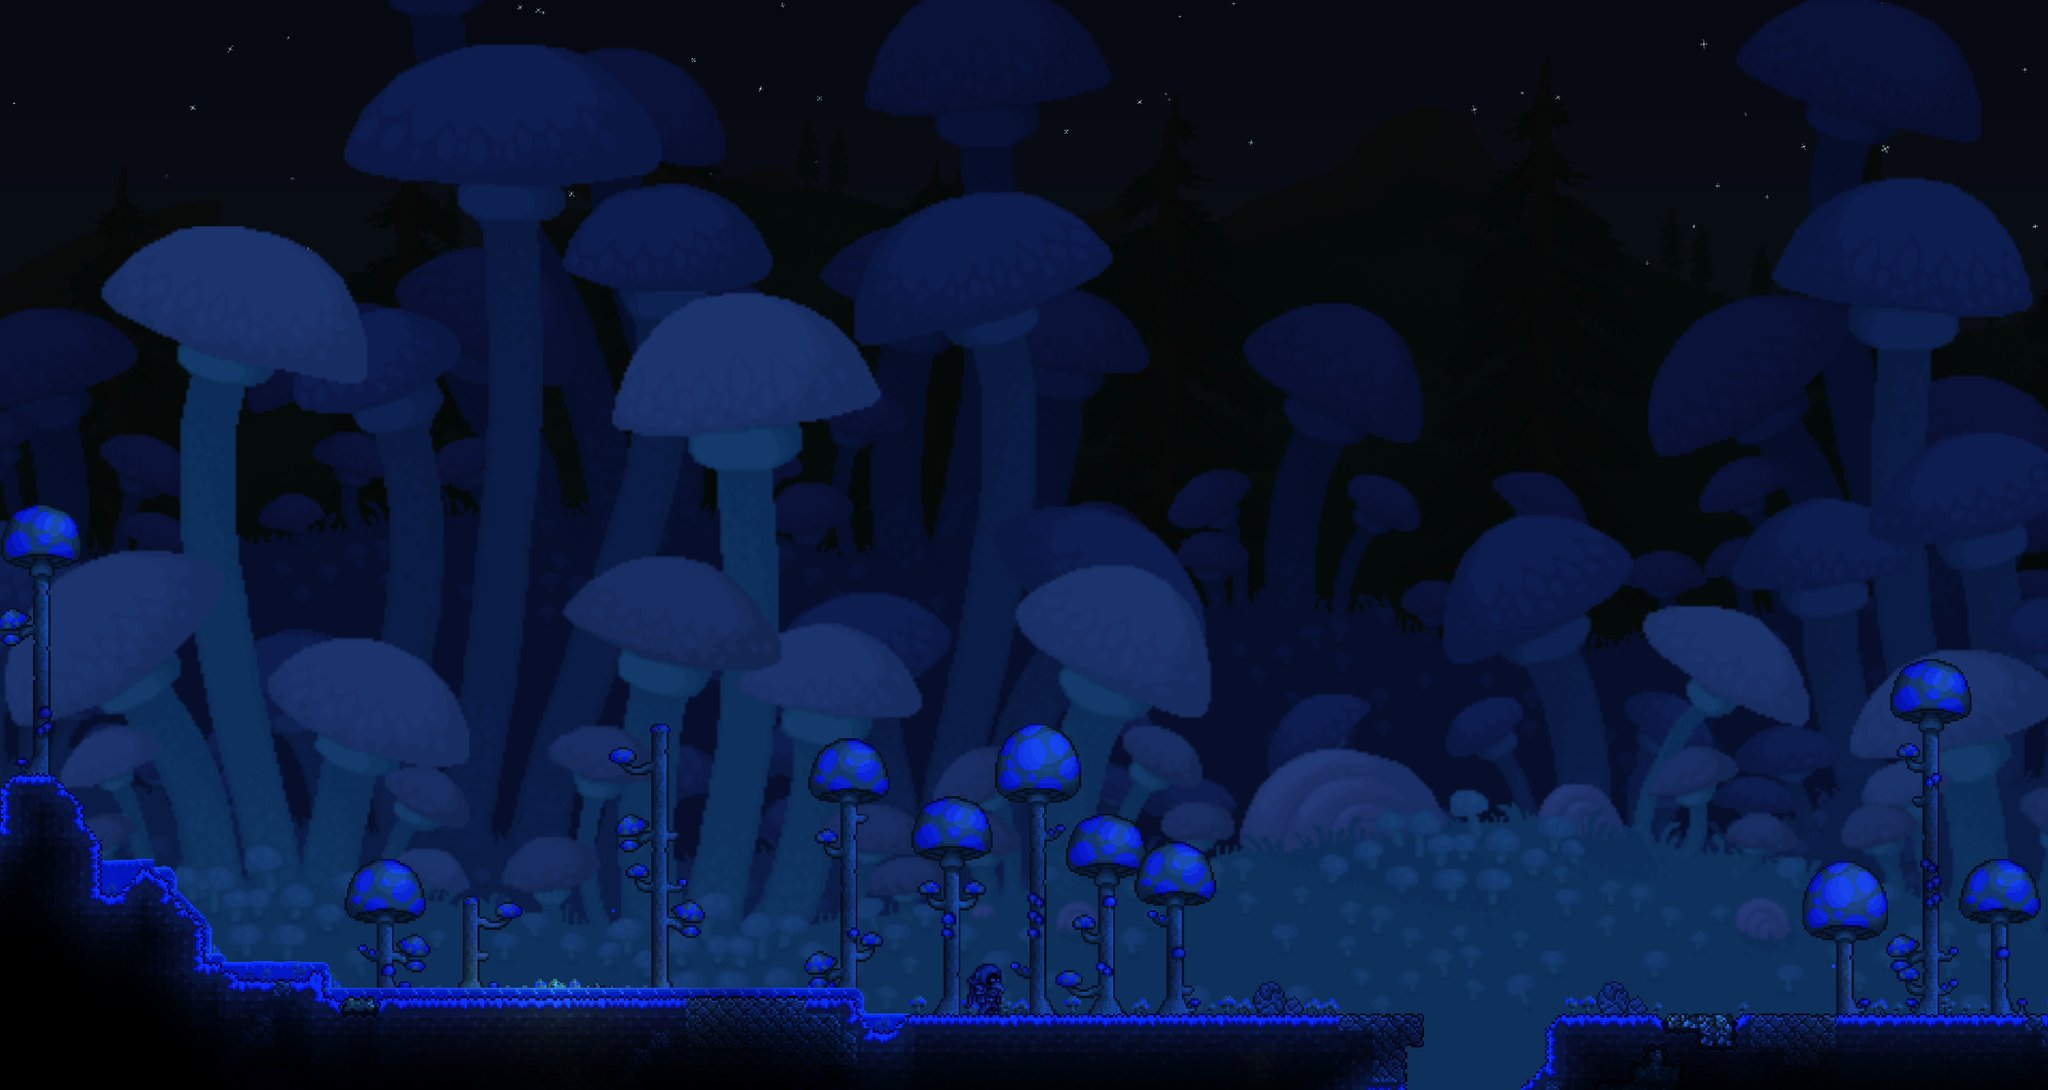
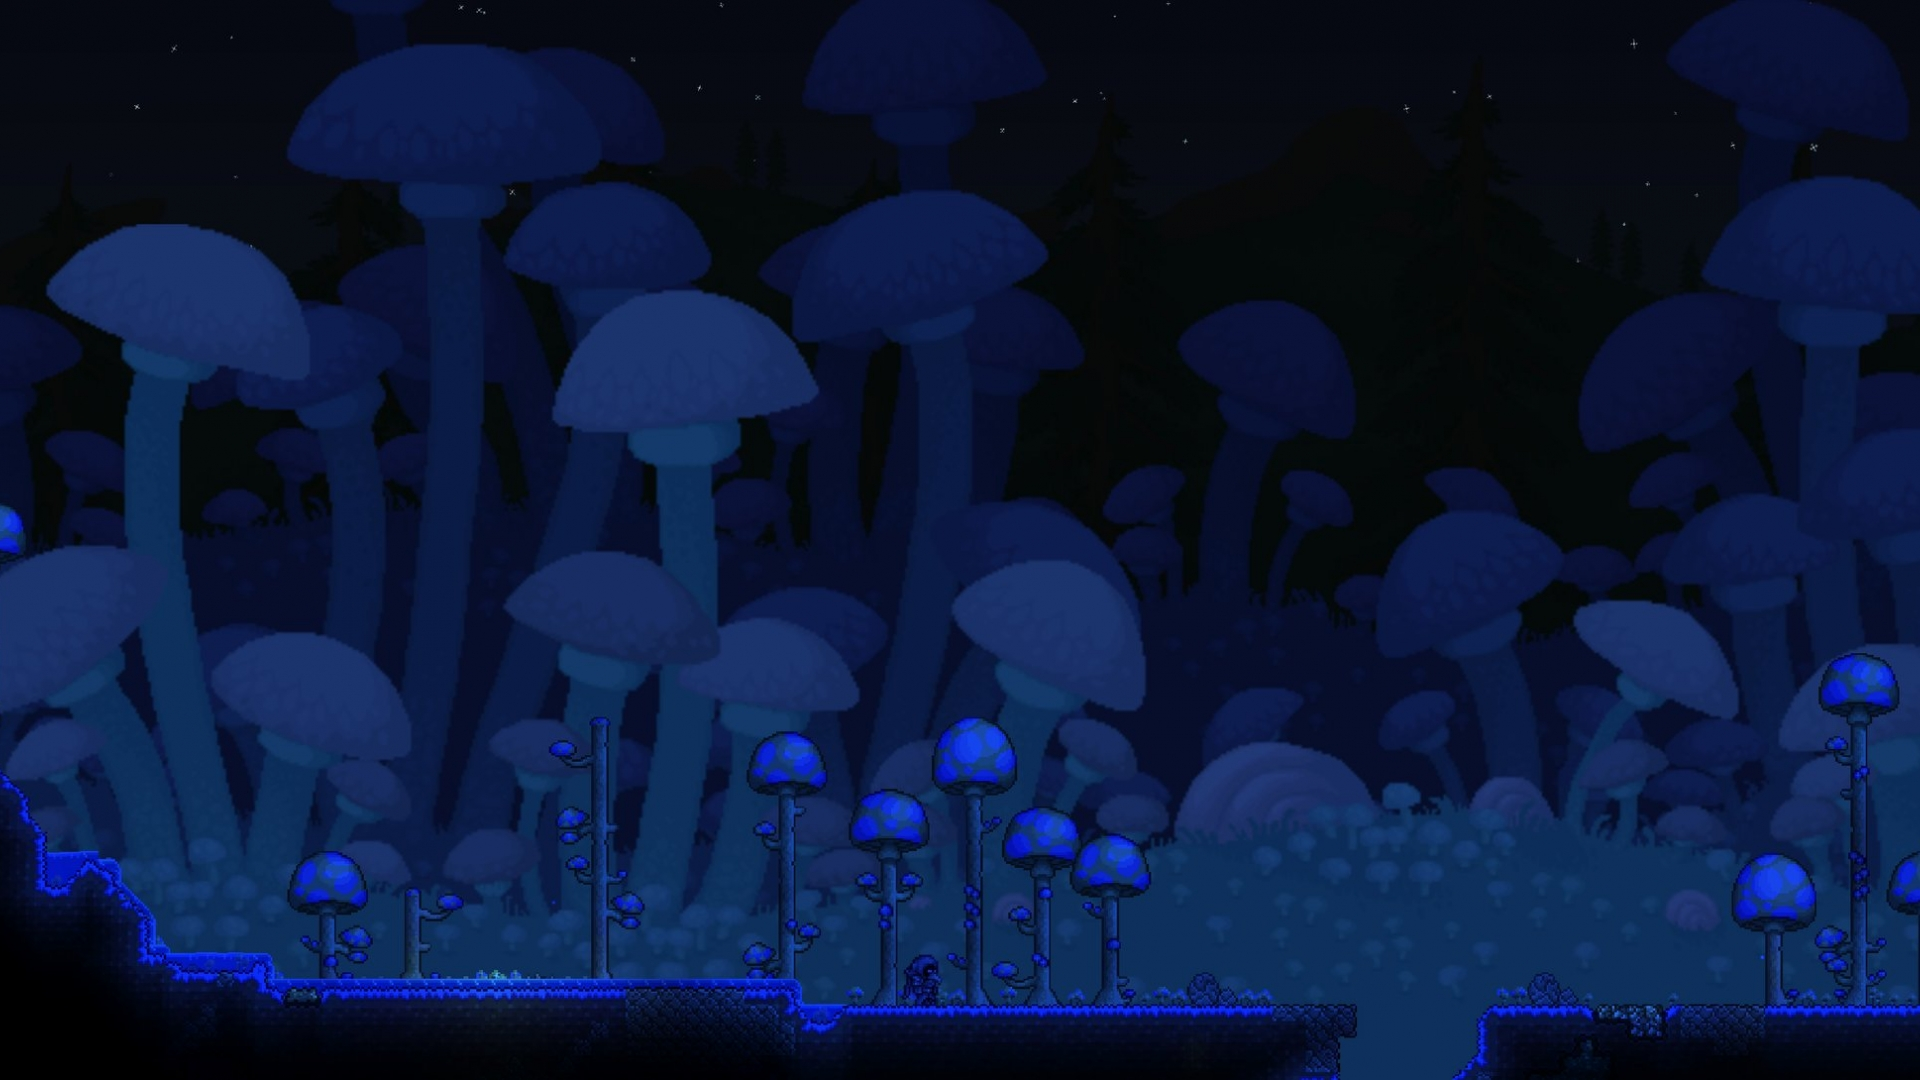
adjusting background image

diff --git a/style.css b/style.css
@@ -4,6 +4,8 @@ body {
     font-family: sans-serif;
     min-height: 100vh;
     background-image: url(Pictures/j92bu1kvqyh11.jpg);
+    background-repeat:no-repeat;
+    background-size: cover;
 }
 
 .container {
